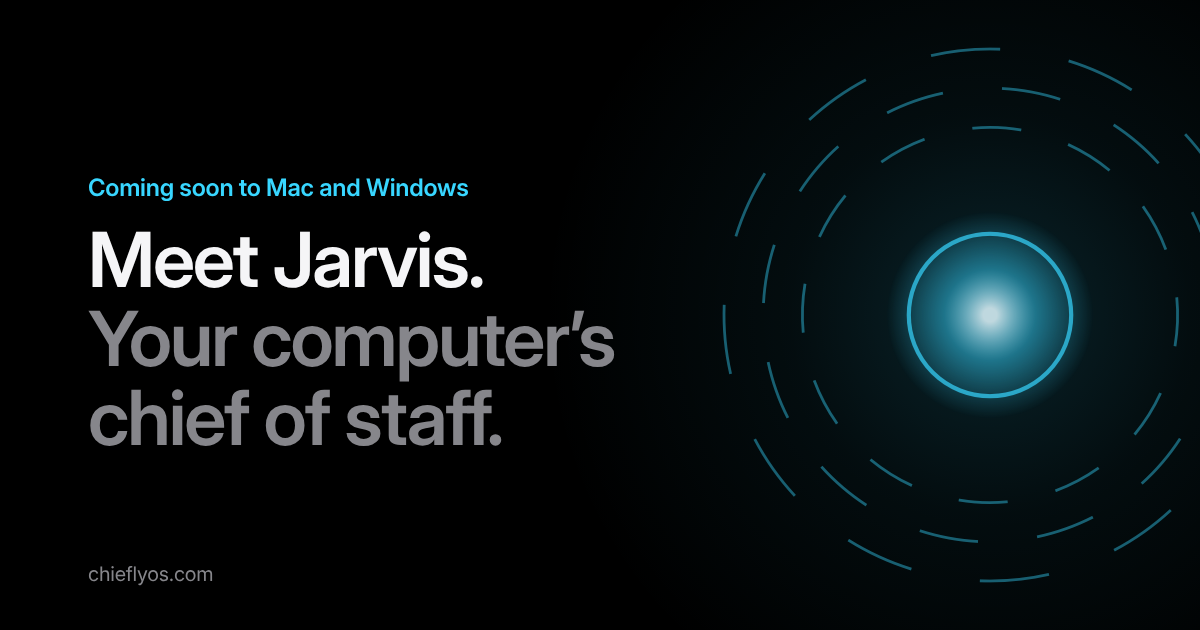
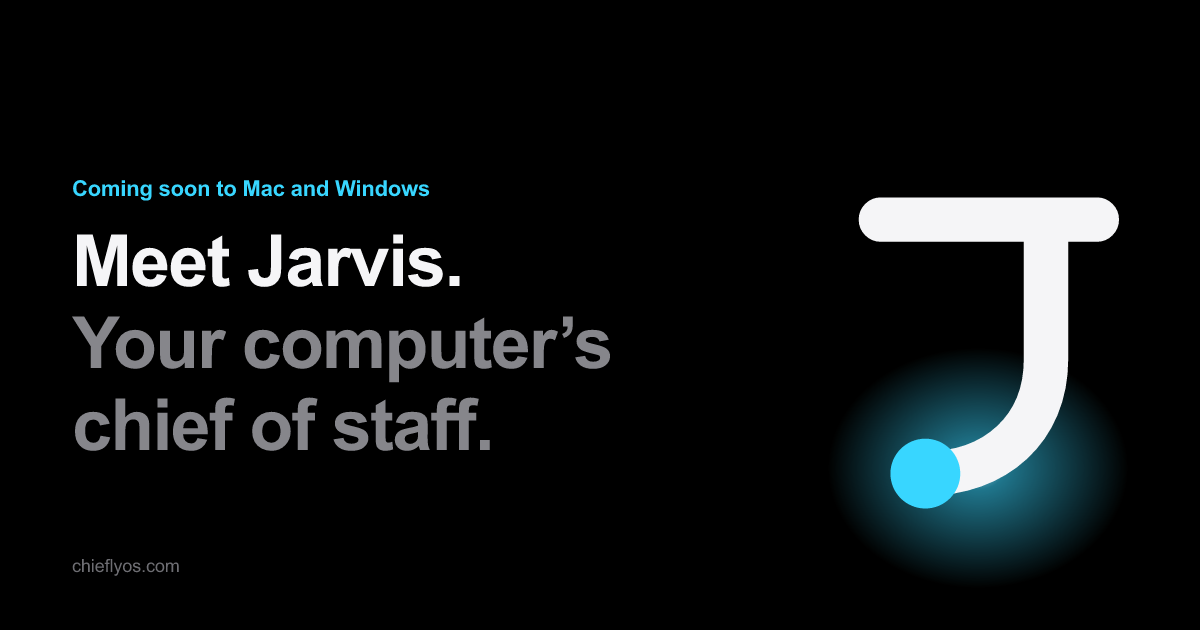
Replace the reactor graphic with the J.
The share image and the scrolling mark now use the same geometric J, with no rings.

diff --git a/app.js b/app.js
@@ -39,15 +39,14 @@ function startUp() {
   for (const ev of SKIP) addEventListener(ev, end, { passive: true });
 }
 
-// ---------- the reactor ----------
-// Drawn on a 400×400 space. power 0 = off (grey dashes, still), 1 = on (cyan, turning, core lit).
+// ---------- the mark ----------
+// Drawn on a 400×400 space. power 0 = the J in dim grey, 1 = white stroke and a lit cyan stop.
 class Reactor {
   constructor(canvas, power) {
     this.canvas = canvas;
     this.g = canvas.getContext("2d");
     this.power = power;
     this.live = canvas.hasAttribute("data-live") && !reduce;
-    this.angles = [0.3, 1.1, 2.0];
     this.visible = false;
     this.raf = 0;
     this.last = 0;
@@ -89,49 +88,48 @@ class Reactor {
     this.raf = this.live && this.visible && !document.hidden ? requestAnimationFrame(this.tick) : 0;
   }
 
-  draw(t, dt) {
+  draw(t) {
     const { g, canvas, power: p } = this;
     const s = canvas.width / 400;
-    g.setTransform(1, 0, 0, 1, 0, 0);
-    g.clearRect(0, 0, canvas.width, canvas.height);
     g.setTransform(s, 0, 0, s, 0, 0);
-    g.lineCap = "butt";
+    g.clearRect(0, 0, 400, 400);
 
-    const speed = ramp(0.3, 1, p);
-    for (let i = 0; i < 3; i++) {
-      this.angles[i] += ((dt * speed) / (2600 + i * 900)) * (i % 2 ? -1 : 1);
-      const lit = ramp(i * 0.16, i * 0.16 + 0.3, p);
-      g.strokeStyle = `rgba(${Math.round(mix(255, 56, lit))},${Math.round(mix(255, 214, lit))},255,${mix(0.07, 0.42, lit).toFixed(3)})`;
-      g.lineWidth = 2;
-      const r = 190 - i * 28;
-      for (let k = 0; k < 12; k++) {
-        const a = this.angles[i] + (k * Math.PI) / 6;
-        g.beginPath();
-        g.arc(200, 200, r, a, a + Math.PI / 12);
-        g.stroke();
-      }
-    }
-
-    const ring = ramp(0.5, 0.72, p);
-    g.strokeStyle = `rgba(${Math.round(mix(255, 56, ring))},${Math.round(mix(255, 214, ring))},255,${mix(0.06, 0.7, ring).toFixed(3)})`;
-    g.lineWidth = 3;
+    const lit = ramp(0.04, 0.92, p);
+    const k = 5.15;
+    const ox = 200 - 32 * k;
+    const oy = 200 - 32 * k;
+    const breathe = 1 + 0.045 * Math.sin((t / 4800) * Math.PI * 2) * (this.live ? lit : 0);
+    const sx = ox + 21 * k;
+    const sy = oy + 56 * k;
+    const glow = 72 * breathe;
+    const grad = g.createRadialGradient(sx, sy, 0, sx, sy, glow);
+    grad.addColorStop(0, `rgba(224,248,255,${(0.55 * lit).toFixed(3)})`);
+    grad.addColorStop(0.22, `rgba(56,214,255,${(0.28 * lit).toFixed(3)})`);
+    grad.addColorStop(1, "rgba(56,214,255,0)");
+    g.fillStyle = grad;
     g.beginPath();
-    g.arc(200, 200, 58, 0, Math.PI * 2);
-    g.stroke();
+    g.arc(sx, sy, glow, 0, Math.PI * 2);
+    g.fill();
 
-    const core = ramp(0.62, 1, p);
-    if (core > 0) {
-      const breathe = 1 + 0.04 * Math.sin((t / 5000) * Math.PI * 2) * (this.live ? 1 : 0);
-      const R = 74 * breathe;
-      const grad = g.createRadialGradient(200, 200, 5, 200, 200, R);
-      grad.addColorStop(0, `rgba(224,248,255,${(0.85 * core).toFixed(3)})`);
-      grad.addColorStop(0.4, `rgba(56,214,255,${(0.47 * core).toFixed(3)})`);
-      grad.addColorStop(1, "rgba(56,214,255,0)");
-      g.fillStyle = grad;
-      g.beginPath();
-      g.arc(200, 200, R, 0, Math.PI * 2);
-      g.fill();
-    }
+    g.save();
+    g.translate(ox, oy);
+    g.scale(k, k);
+    g.lineCap = "round";
+    g.lineJoin = "round";
+    g.lineWidth = 7;
+    g.strokeStyle = rgb(DIM, LIT, lit);
+    g.beginPath();
+    g.moveTo(14, 16);
+    g.lineTo(48, 16);
+    g.moveTo(40, 16);
+    g.lineTo(40, 38);
+    g.bezierCurveTo(40, 49, 32, 56, 21, 56);
+    g.stroke();
+    g.fillStyle = `rgba(56,214,255,${mix(0.2, 1, lit).toFixed(3)})`;
+    g.beginPath();
+    g.arc(21, 56, 5.5, 0, Math.PI * 2);
+    g.fill();
+    g.restore();
   }
 }
 

diff --git a/styles.css b/styles.css
@@ -1,6 +1,6 @@
 /* Jarvis by Chiefly. One page, no framework.
    The feel: lifting the lid off a new device and switching it on. Pure black, big type,
-   one product (the reactor), and motion that follows the scroll. Cyan only on the reactor,
+   one product (the J), and motion that follows the scroll. Cyan only on the mark,
    eyebrows and links. */
 
 @font-face {
@@ -181,8 +181,8 @@ html.js .lines li { color: var(--dim); }
 .reactor-wrap { position: relative; width: min(520px, 82vw); aspect-ratio: 1; will-change: transform; }
 .reactor-wrap canvas { position: relative; width: 100%; height: 100%; }
 .bloom {
-  position: absolute; inset: -38%; border-radius: 50%; pointer-events: none; opacity: 0;
-  background: radial-gradient(closest-side, rgba(56, 214, 255, .17), rgba(56, 214, 255, .06) 45%, rgba(56, 214, 255, 0) 100%);
+  position: absolute; width: 42%; height: 42%; left: 14%; top: 62%; border-radius: 50%; pointer-events: none; opacity: 0;
+  background: radial-gradient(closest-side, rgba(56, 214, 255, .22), rgba(56, 214, 255, 0) 72%);
 }
 .bloom.lit { opacity: 1; }
 

diff --git a/README.md b/README.md
@@ -6,7 +6,7 @@ The waitlist page for **Jarvis by Chiefly**. Plain HTML, CSS and JavaScript: no 
 
 - `index.html`: all the copy.
 - `styles.css`: the look (colours and easing at the top).
-- `app.js`: the reactor, the scroll effects and the sign-up form.
+- `app.js`: the mark, the scroll effects and the sign-up form.
 - `boot.js`: decides whether to play the start-up screen (first visit per browser session, never with reduced motion).
 - `img/`: logo, favicon and the share image (`og.png`, 1200×630).
 - `fonts/`: Inter (SIL Open Font License, `OFL.txt`), served from this site.
